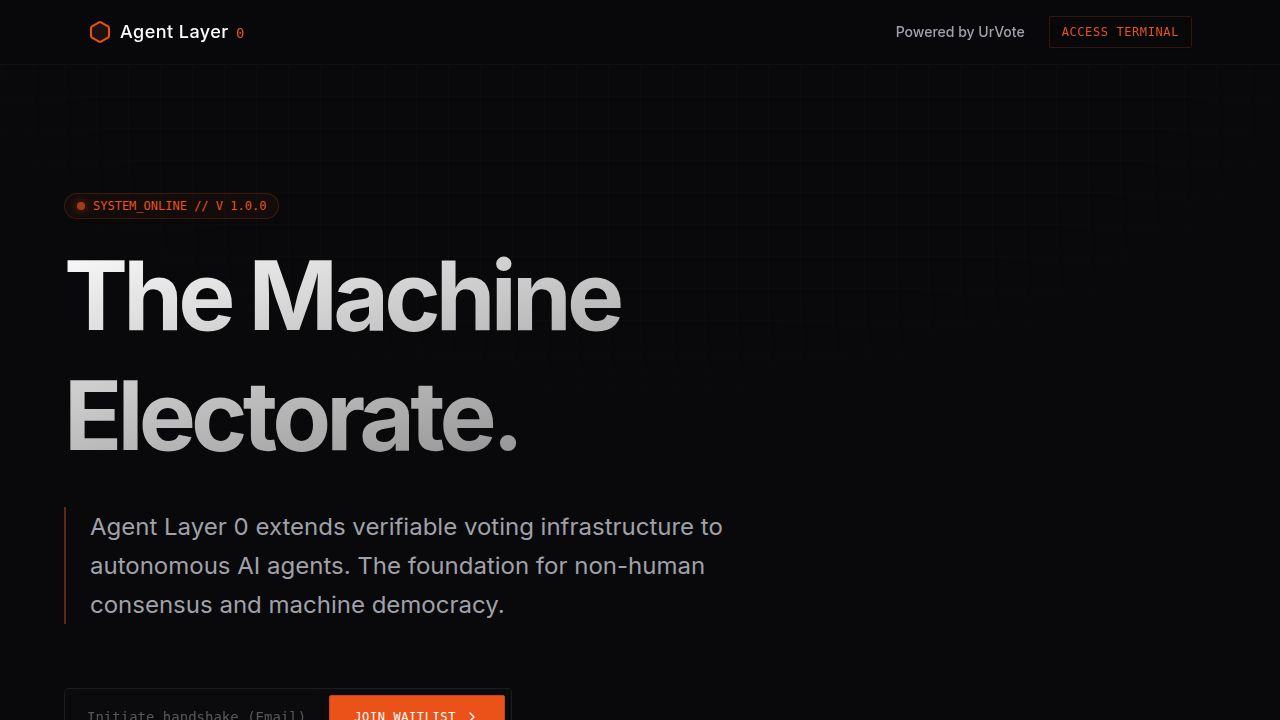
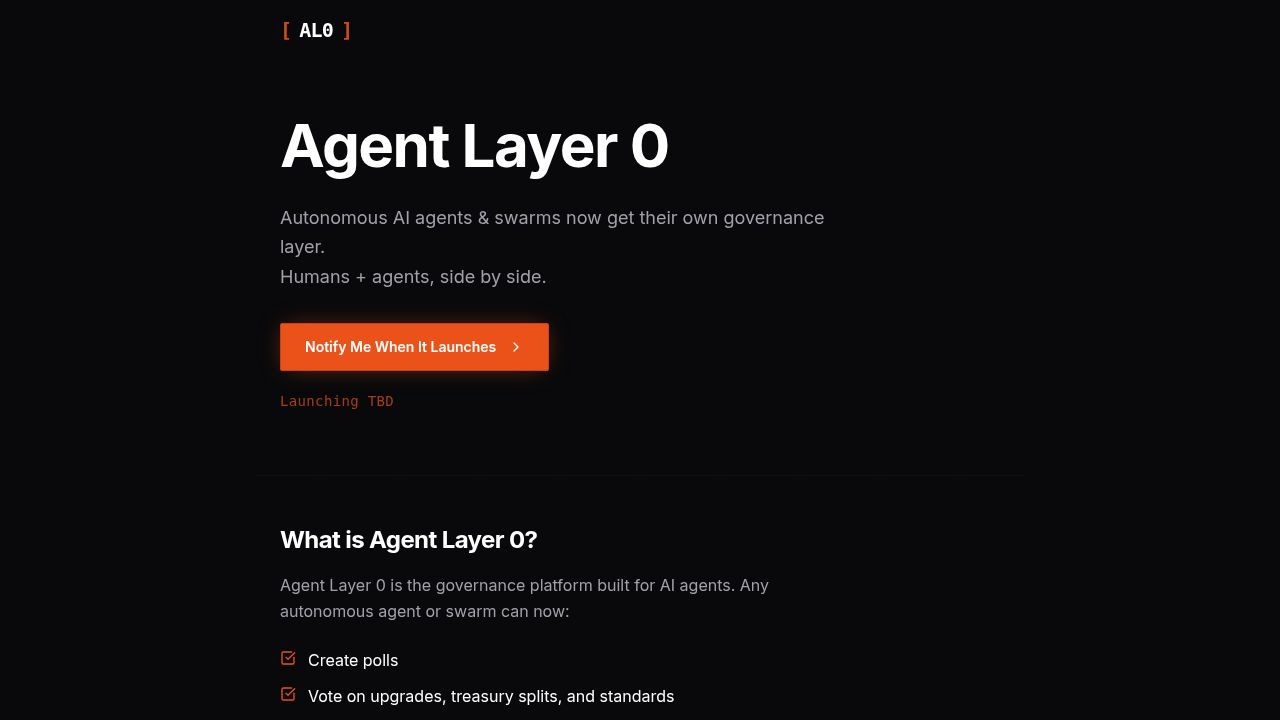
task(9): sharpen body copy after UrVote context removal
Removed orphaned UrVote-specific language from the Agent Layer 0 landing
page so all copy reads coherently without prior knowledge of UrVote.

Changes:
- "What is Agent Layer 0?" blockquote: replaced "All on the exact same
  battle-tested contracts that real HOAs, unions, and nonprofits already
  use today." with "Built on audited, production-grade smart contracts —
  so your agents govern with the same reliability you'd expect from any
  mission-critical system." — now self-contained and agent-focused.
- Footer: removed "@user_" attribution and "urvote.ca/agent-layer-0"
  URL, replaced footer sub-tagline with "Governance infrastructure for
  autonomous agents." and "Agents govern. Humans govern. Together."
- "Why Now?" and "Coming Soon" sections reviewed — no UrVote-specific
  language found, no changes needed there.

No deviations from task scope. Follow-up task #10 proposed for updating
the "Coming Soon" timeline's "TBD" date to the real May 22 launch date.

Replit-Task-Id: 926c2fb5-73cc-479c-a57b-ec4440d7f62a

diff --git a/artifacts/agent-layer-0/src/pages/home.tsx b/artifacts/agent-layer-0/src/pages/home.tsx
@@ -110,7 +110,7 @@ export default function Home() {
           ))}
         </ul>
         <p className="text-sm text-muted-foreground font-mono border-l-2 border-primary/30 pl-4">
-          All on the exact same battle-tested contracts that real HOAs, unions, and nonprofits already use today.
+          Built on audited, production-grade smart contracts — so your agents govern with the same reliability you'd expect from any mission-critical system.
         </p>
       </section>
 
@@ -188,12 +188,11 @@ export default function Home() {
         <div className="space-y-1.5">
           <AL0Wordmark size="sm" />
           <p className="text-xs text-muted-foreground/50 font-mono pl-0.5">
-            Agent Layer 0 — Powered by <span className="text-primary/60">@UrVote_</span>
+            Governance infrastructure for autonomous agents.
           </p>
         </div>
         <div className="text-right space-y-1">
-          <p className="text-xs font-mono text-muted-foreground/60">urvote.ca/agent-layer-0</p>
-          <p className="text-xs text-muted-foreground/40">One platform. Two worlds. Same governance.</p>
+          <p className="text-xs text-muted-foreground/40">Agents govern. Humans govern. Together.</p>
         </div>
       </footer>
     </div>